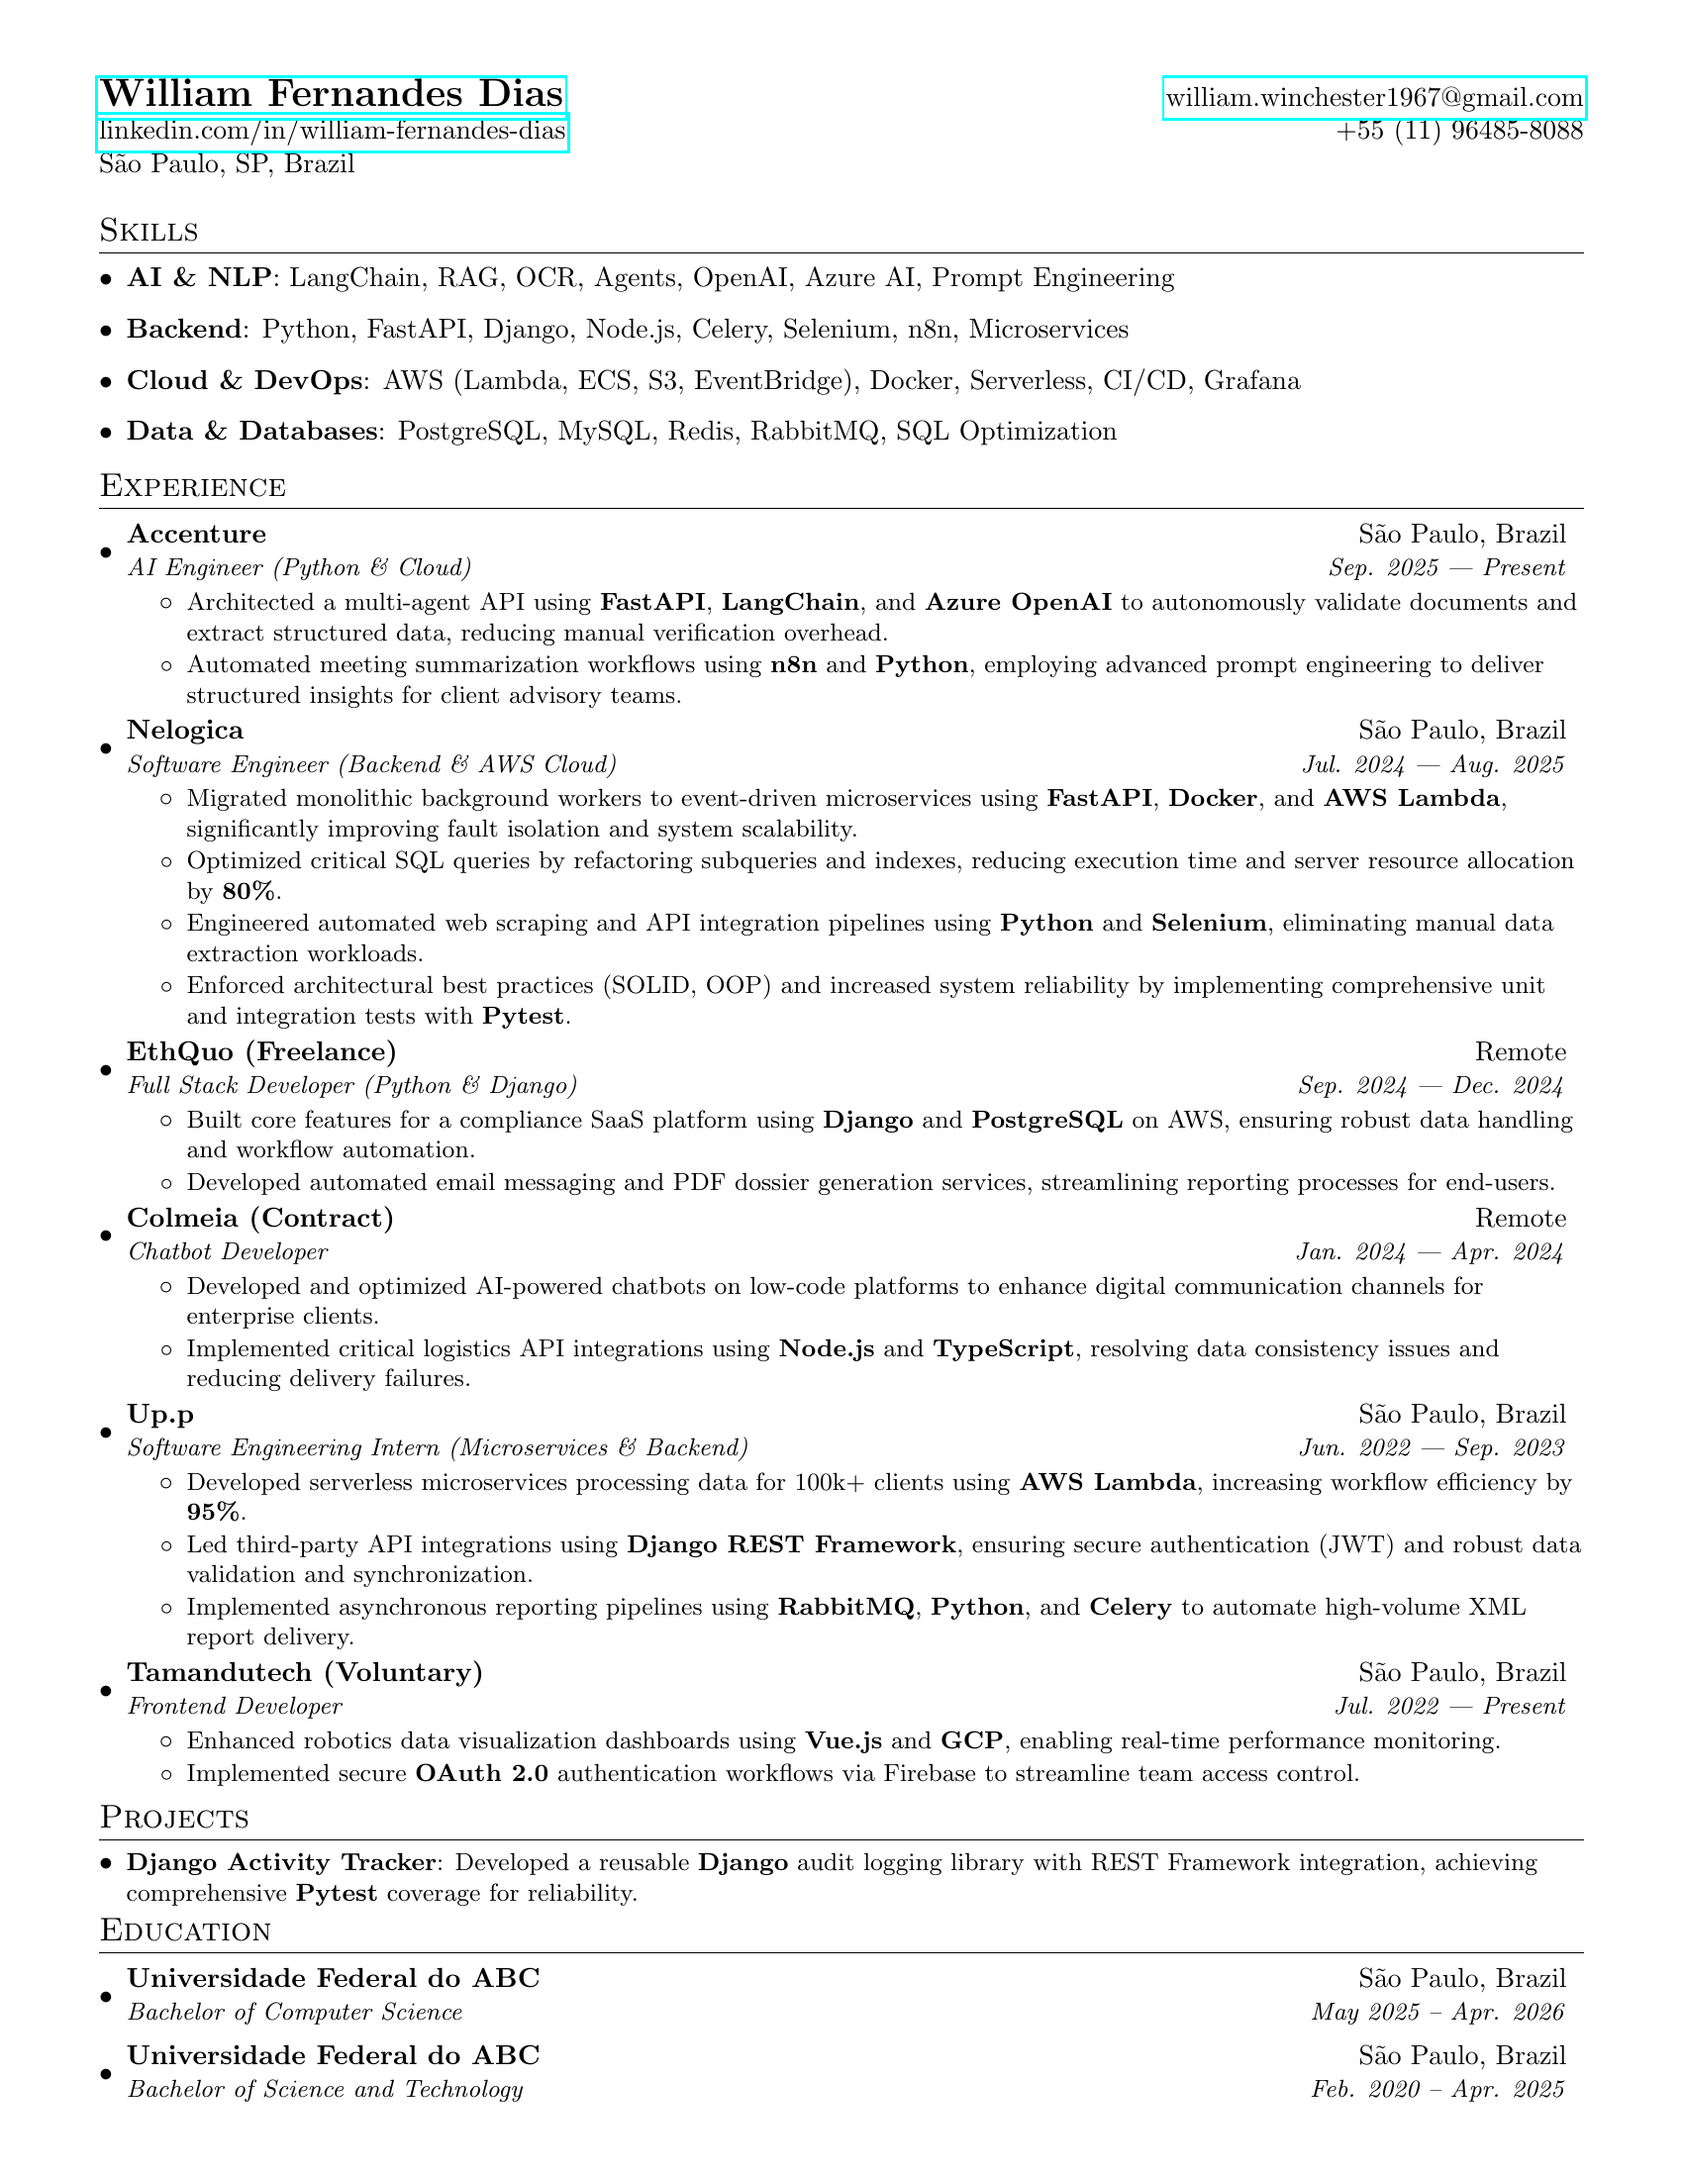
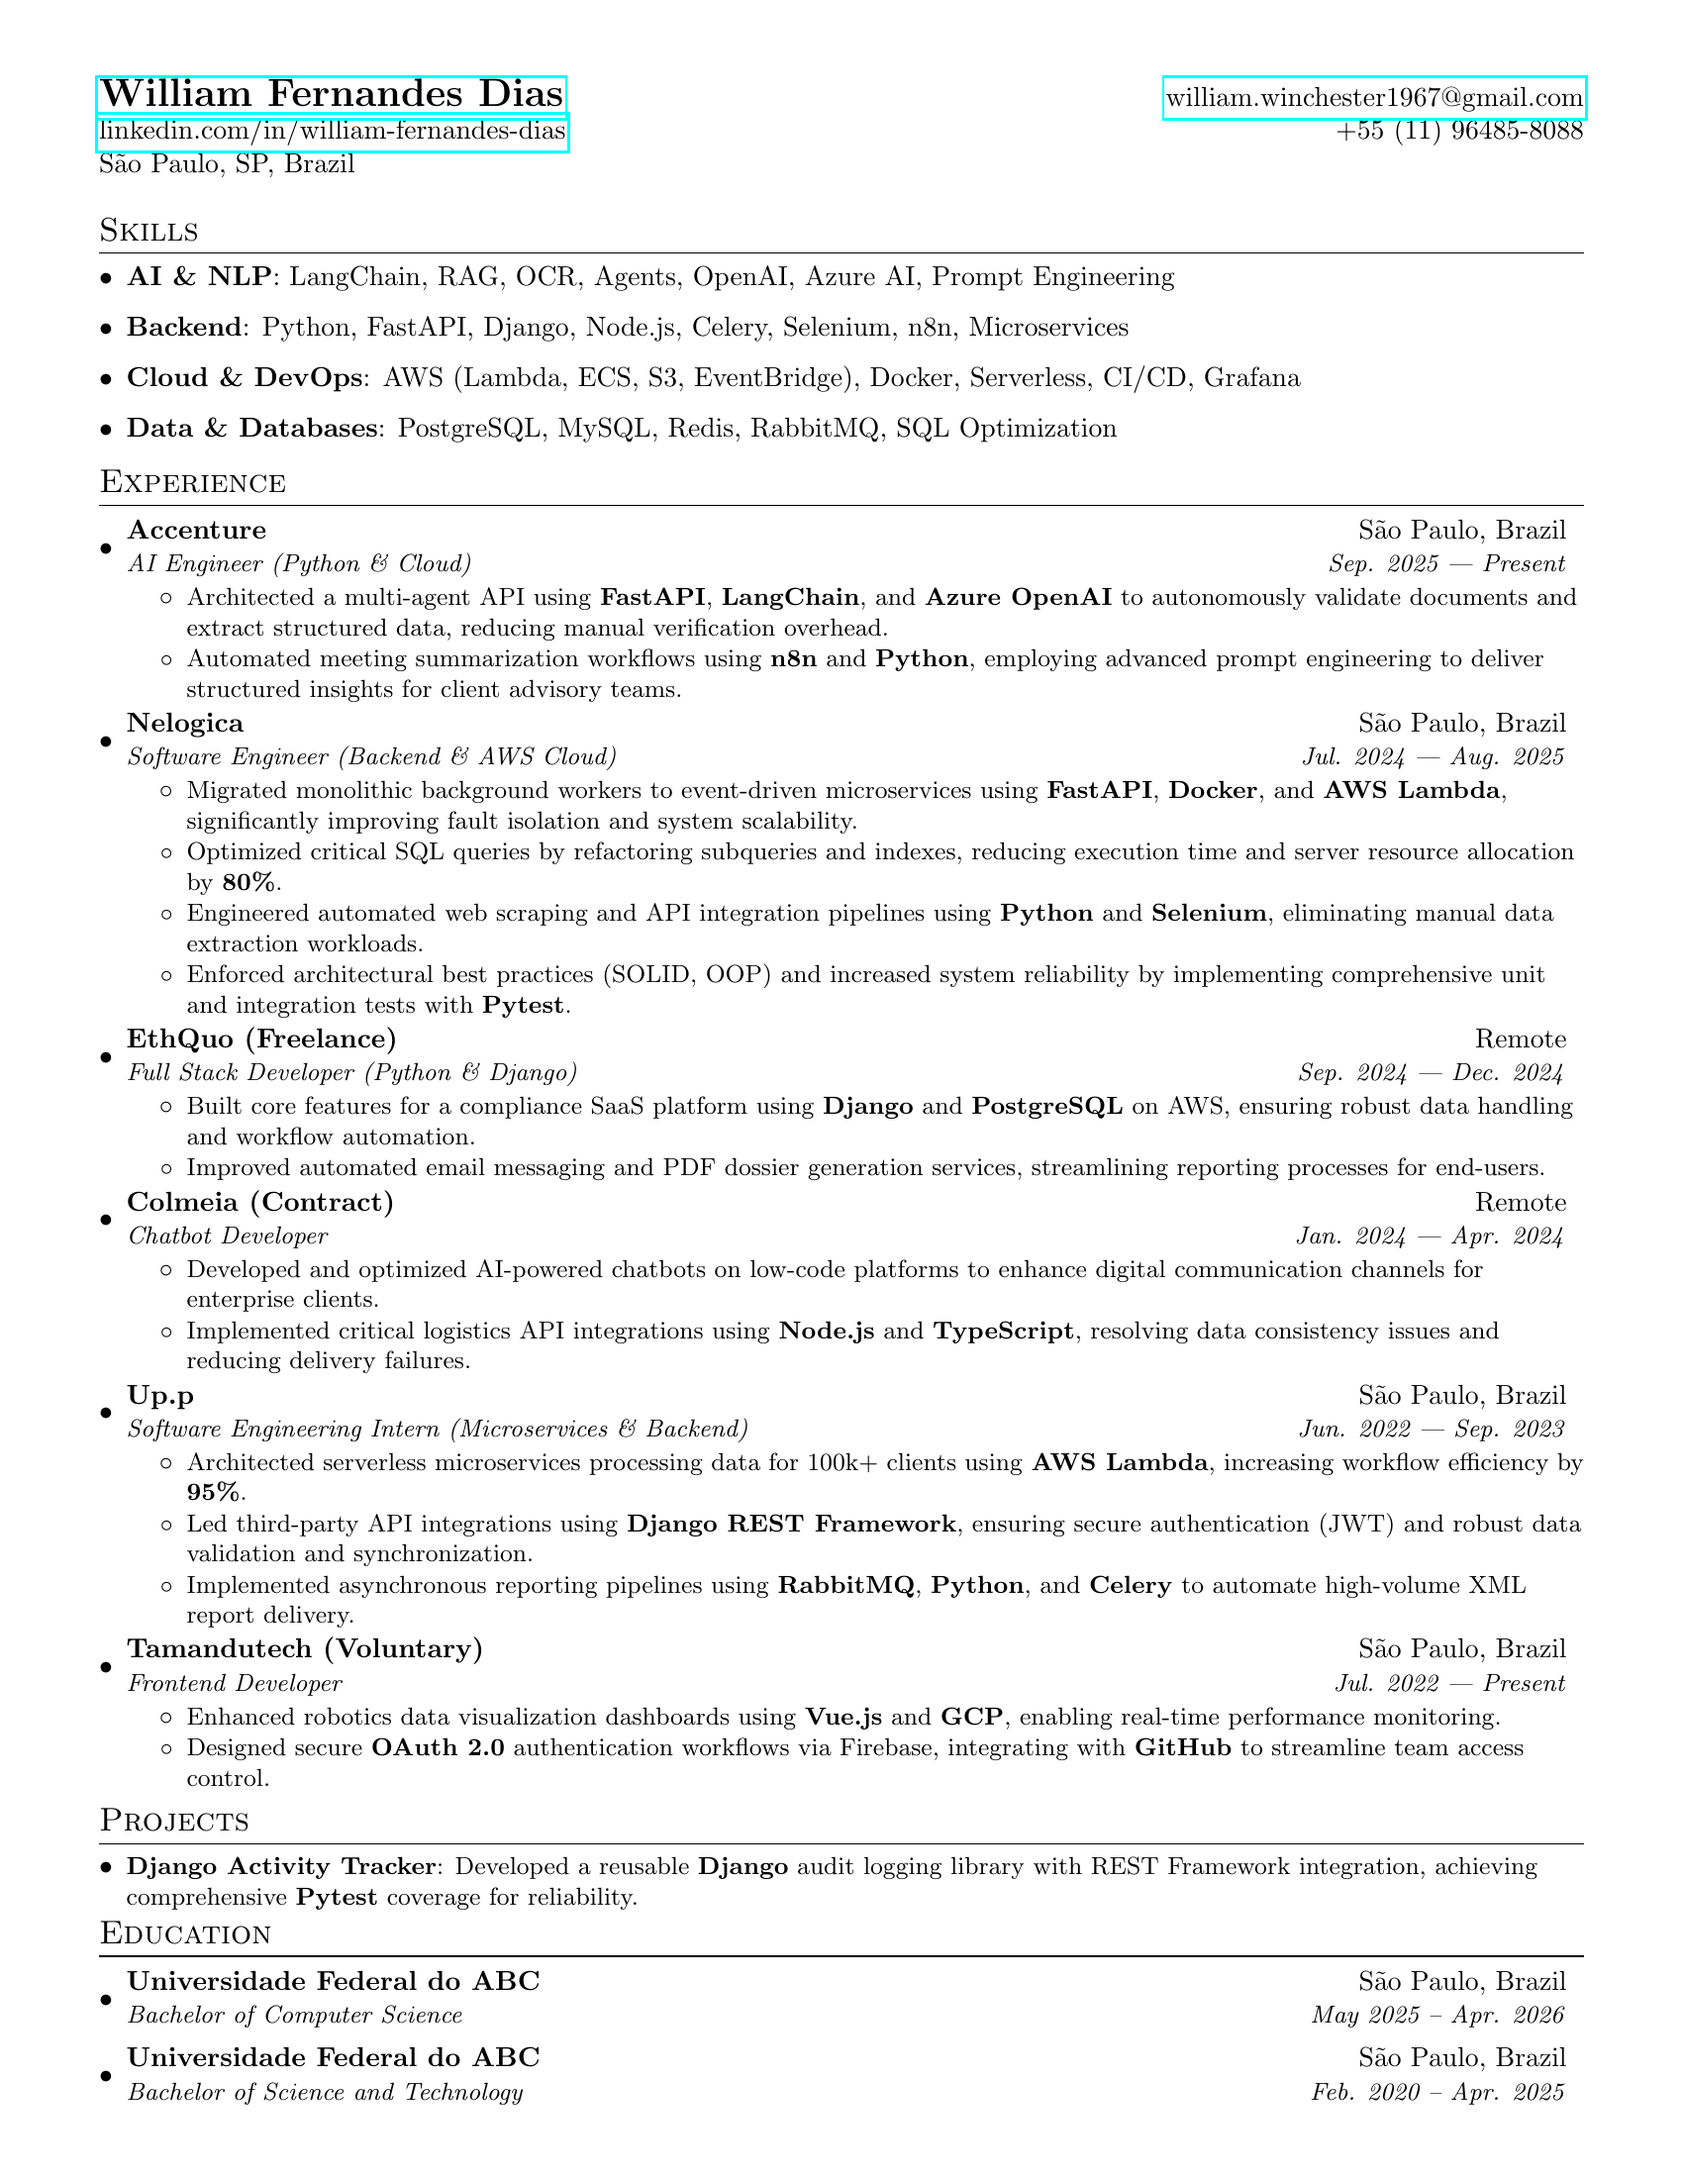
remove repetition of impact keywords words

Changed region(s): [[0.0624, 0.1236, 0.9353, 0.9891], [0.7794, 0.8964, 0.9353, 0.9891], [0.7171, 0.1545, 0.7482, 0.1855]]

diff --git a/sessions/experience.tex b/sessions/experience.tex
@@ -32,7 +32,7 @@
 \resumeItemShort
 {Built core features for a compliance SaaS platform using \textbf{Django} and \textbf{PostgreSQL} on AWS, ensuring robust data handling and workflow automation.}
 \resumeItemShort
-{Developed automated email messaging and PDF dossier generation services, streamlining reporting processes for end-users.}
+{Improved automated email messaging and PDF dossier generation services, streamlining reporting processes for end-users.}
 \resumeItemListEnd
 
 \resumeSubheading
@@ -50,7 +50,7 @@
 {Software Engineering Intern (Microservices \& Backend)}{Jun. 2022 --- Sep. 2023}
 \resumeItemListStart
 \resumeItemShort
-{Developed serverless microservices processing data for 100k+ clients using \textbf{AWS Lambda}, increasing workflow efficiency by \textbf{95\%}.}
+{Architected serverless microservices processing data for 100k+ clients using \textbf{AWS Lambda}, increasing workflow efficiency by \textbf{95\%}.}
 \resumeItemShort
 {Led third-party API integrations using \textbf{Django REST Framework}, ensuring secure authentication (JWT) and robust data validation and synchronization.}
 \resumeItemShort
@@ -64,7 +64,7 @@
 \resumeItemShort
 {Enhanced robotics data visualization dashboards using \textbf{Vue.js} and \textbf{GCP}, enabling real-time performance monitoring.}
 \resumeItemShort
-{Implemented secure \textbf{OAuth 2.0} authentication workflows via Firebase to streamline team access control.}
+{Designed secure \textbf{OAuth 2.0} authentication workflows via Firebase, integrating with \textbf{GitHub} to streamline team access control.}
 \resumeItemListEnd
 
 \resumeSubHeadingListEnd
